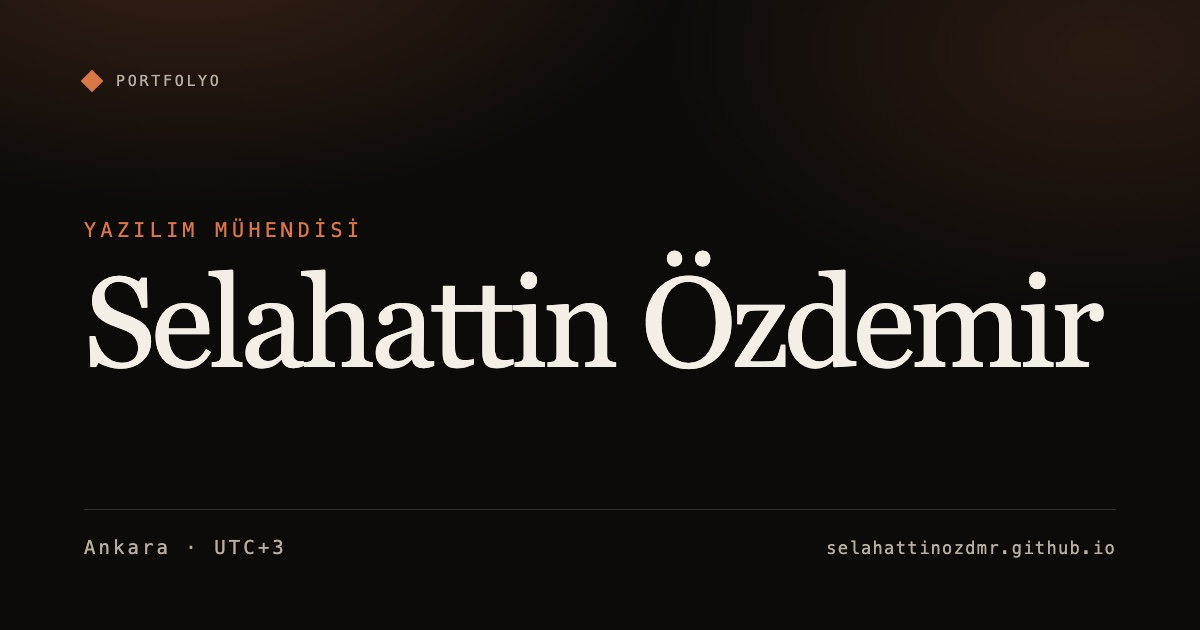
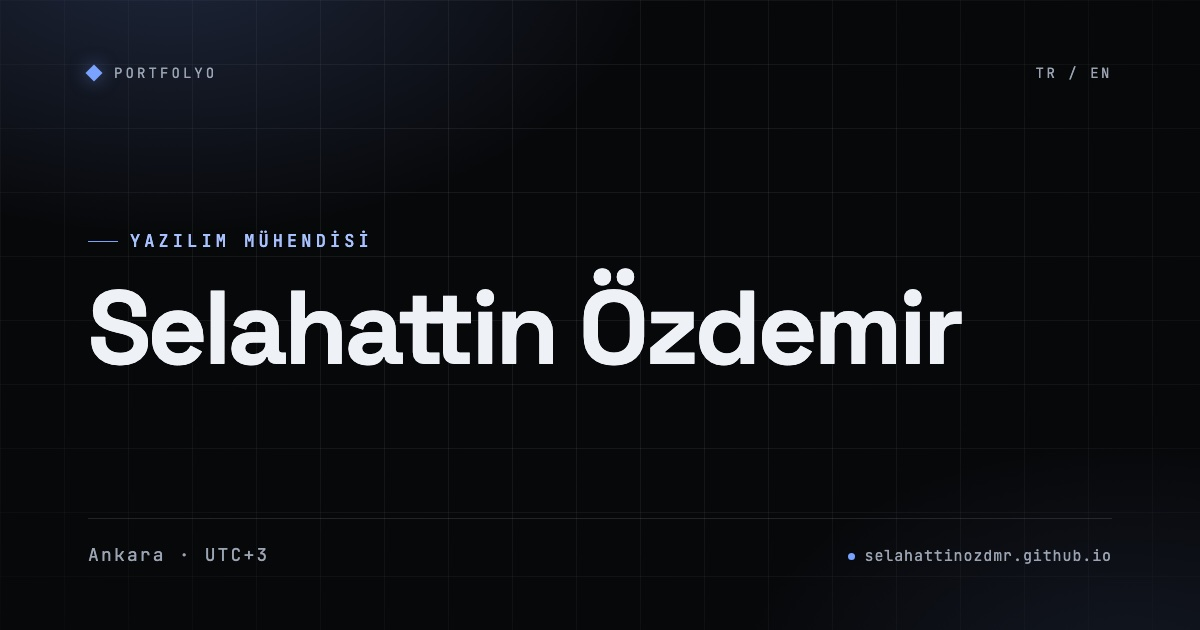
chore: refresh OG image and docs for technical minimal

diff --git a/scripts/og.html b/scripts/og.html
@@ -3,13 +3,23 @@
   <head>
     <meta charset="utf-8" />
     <title>Selahattin Özdemir — OG</title>
+    <link rel="preconnect" href="https://fonts.googleapis.com" />
+    <link rel="preconnect" href="https://fonts.gstatic.com" crossorigin />
+    <link
+      href="https://fonts.googleapis.com/css2?family=Space+Grotesk:wght@500;700&family=JetBrains+Mono:wght@400;500&display=swap"
+      rel="stylesheet"
+    />
     <style>
       :root {
-        --bg: #0d0b09;
-        --fg: #f4efe6;
-        --fg-muted: #b8aea2;
-        --accent: #d97745;
-        --line: rgba(244, 239, 230, 0.16);
+        --bg: #07080a;
+        --fg: #eef2f7;
+        --fg-muted: #9aa4b2;
+        --accent: #7aa2ff;
+        --accent-ink: #a8c1ff;
+        --line: rgba(238, 242, 247, 0.12);
+        --grid: rgba(238, 242, 247, 0.07);
+        --display: "Space Grotesk", "Helvetica Neue", Arial, sans-serif;
+        --mono: "JetBrains Mono", "SFMono-Regular", Menlo, Consolas, monospace;
       }
 
       * {
@@ -27,23 +37,38 @@
       body {
         background: var(--bg);
         color: var(--fg);
-        font-family: "Helvetica Neue", Arial, sans-serif;
+        font-family: var(--display);
         position: relative;
+      }
+
+      .grid {
+        position: absolute;
+        inset: 0;
+        background-image:
+          linear-gradient(to right, var(--grid) 1px, transparent 1px),
+          linear-gradient(to bottom, var(--grid) 1px, transparent 1px);
+        background-size: 64px 64px;
+        -webkit-mask-image: radial-gradient(
+          ellipse 78% 88% at 50% 42%,
+          #000 30%,
+          transparent 100%
+        );
+        mask-image: radial-gradient(ellipse 78% 88% at 50% 42%, #000 30%, transparent 100%);
       }
 
       .glow {
         position: absolute;
         inset: 0;
         background:
-          radial-gradient(760px 420px at 16% -12%, rgba(217, 119, 69, 0.22), transparent 66%),
-          radial-gradient(640px 380px at 92% 8%, rgba(217, 119, 69, 0.14), transparent 68%);
+          radial-gradient(720px 420px at 14% -8%, rgba(122, 162, 255, 0.2), transparent 68%),
+          radial-gradient(560px 340px at 94% 108%, rgba(122, 162, 255, 0.1), transparent 70%);
       }
 
       .frame {
         position: relative;
         z-index: 1;
         height: 100%;
-        padding: 72px 84px;
+        padding: 64px 88px;
         display: flex;
         flex-direction: column;
         justify-content: space-between;
@@ -52,37 +77,65 @@
       .top {
         display: flex;
         align-items: center;
-        gap: 16px;
-        font-family: "SFMono-Regular", Menlo, Consolas, monospace;
-        font-size: 15px;
-        letter-spacing: 0.18em;
+        justify-content: space-between;
+        font-family: var(--mono);
+        font-size: 14px;
+        letter-spacing: 0.22em;
         text-transform: uppercase;
         color: var(--fg-muted);
       }
 
+      .brand {
+        display: flex;
+        align-items: center;
+        gap: 14px;
+      }
+
       .mark {
-        width: 16px;
-        height: 16px;
+        width: 12px;
+        height: 12px;
         background: var(--accent);
         transform: rotate(45deg);
+        box-shadow: 0 0 18px rgba(122, 162, 255, 0.55);
+      }
+
+      .top-meta {
+        color: var(--fg-muted);
+        letter-spacing: 0.18em;
+      }
+
+      .middle {
+        padding-top: 8px;
       }
 
       .role {
-        font-family: "SFMono-Regular", Menlo, Consolas, monospace;
-        font-size: 20px;
-        letter-spacing: 0.22em;
+        display: flex;
+        align-items: center;
+        gap: 12px;
+        font-family: var(--mono);
+        font-size: 17px;
+        font-weight: 500;
+        letter-spacing: 0.24em;
         text-transform: uppercase;
-        color: var(--accent);
-        margin-bottom: 22px;
+        color: var(--accent-ink);
+        margin-bottom: 28px;
+      }
+
+      .role::before {
+        content: "";
+        width: 30px;
+        height: 1px;
+        background: var(--accent);
       }
 
       h1 {
-        font-family: Georgia, "Times New Roman", serif;
-        font-weight: 400;
-        font-size: 128px;
-        line-height: 0.92;
+        font-family: var(--display);
+        font-weight: 700;
+        font-size: 104px;
+        line-height: 0.94;
         letter-spacing: -0.035em;
         margin: 0;
+        color: var(--fg);
       }
 
       .bottom {
@@ -90,35 +143,49 @@
         align-items: flex-end;
         justify-content: space-between;
         border-top: 1px solid var(--line);
-        padding-top: 26px;
+        padding-top: 24px;
       }
 
       .meta {
-        font-family: "SFMono-Regular", Menlo, Consolas, monospace;
-        font-size: 19px;
-        letter-spacing: 0.16em;
+        font-family: var(--mono);
+        font-size: 18px;
+        letter-spacing: 0.12em;
         color: var(--fg-muted);
       }
 
       .handle {
-        font-family: "SFMono-Regular", Menlo, Consolas, monospace;
-        font-size: 17px;
-        letter-spacing: 0.08em;
+        display: flex;
+        align-items: center;
+        gap: 10px;
+        font-family: var(--mono);
+        font-size: 15px;
+        letter-spacing: 0.06em;
         color: var(--fg-muted);
+      }
+
+      .dot {
+        width: 7px;
+        height: 7px;
+        border-radius: 50%;
+        background: var(--accent);
       }
     </style>
   </head>
   <body>
+    <div class="grid"></div>
     <div class="glow"></div>
     <div class="frame">
-      <div class="top"><span class="mark"></span><span>Portfolyo</span></div>
-      <div>
+      <div class="top">
+        <div class="brand"><span class="mark"></span><span>Portfolyo</span></div>
+        <div class="top-meta">TR / EN</div>
+      </div>
+      <div class="middle">
         <div class="role">Yazılım Mühendisi</div>
         <h1>Selahattin Özdemir</h1>
       </div>
       <div class="bottom">
         <div class="meta">Ankara · UTC+3</div>
-        <div class="handle">selahattinozdmr.github.io</div>
+        <div class="handle"><span class="dot"></span>selahattinozdmr.github.io</div>
       </div>
     </div>
   </body>

diff --git a/README.md b/README.md
@@ -1,13 +1,13 @@
 # Selahattin Özdemir — Portfolio
 
-Bilingual (TR/EN) editorial single-page portfolio built with Next.js. The site is
-a static export deployed to GitHub Pages.
+Bilingual (TR/EN) technical-minimal single-page portfolio built with Next.js. The
+site is a static export deployed to GitHub Pages.
 
 ## Stack
 
 - Next.js 16 (App Router), React 19, TypeScript, Tailwind CSS v4
-- Motion for small, purposeful reveals
-- Instrument Serif (display) + Inter (body) + JetBrains Mono (labels)
+- Motion (`motion/react`) for a purposeful, reduced-motion-safe motion layer
+- Space Grotesk (display) + Inter (body) + JetBrains Mono (labels)
 - Static export (`output: "export"`); no server runtime, no GSAP/Lenis/video
 
 Project images are decorative **temporary preview** assets. They are not real
@@ -35,7 +35,7 @@ npm run lint
 `npm run build` writes the static site to `out/`. `npm run verify` checks that
 the export contains both locales, the root redirect, media assets, basePath-aware
 canonical/hreflang/OG URLs (exactly once), SSR-visible content, light/dark
-contrast, the new editorial section structure, and that the legacy video/GSAP/Lenis
+contrast, the technical-minimal section structure, and that the legacy video/GSAP/Lenis
 files and dependencies are gone.
 
 ## Preview the static export
@@ -65,6 +65,7 @@ deployment still works.
 
 ## Docs
 
-- Design: `docs/superpowers/specs/2026-11-25-portfolio-editorial-redesign-design.md`
-- Implementation plan: `docs/superpowers/plans/2026-11-25-portfolio-editorial-redesign.md`
+- Design: `docs/superpowers/specs/2026-11-25-portfolio-technical-minimal-motion-design.md`
+- Implementation plan: `docs/superpowers/plans/2026-11-25-portfolio-technical-minimal-motion.md`
+- Previous design: `docs/superpowers/specs/2026-11-25-portfolio-editorial-redesign-design.md`
 - Superseded design: `docs/superpowers/specs/2026-11-25-portfolio-simplify-github-pages-design.md`
